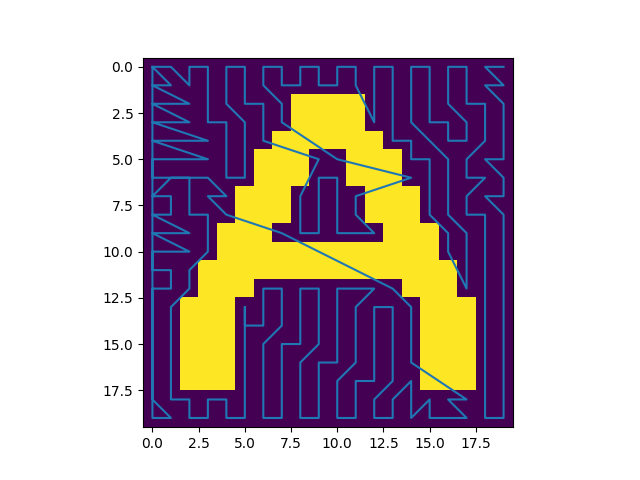
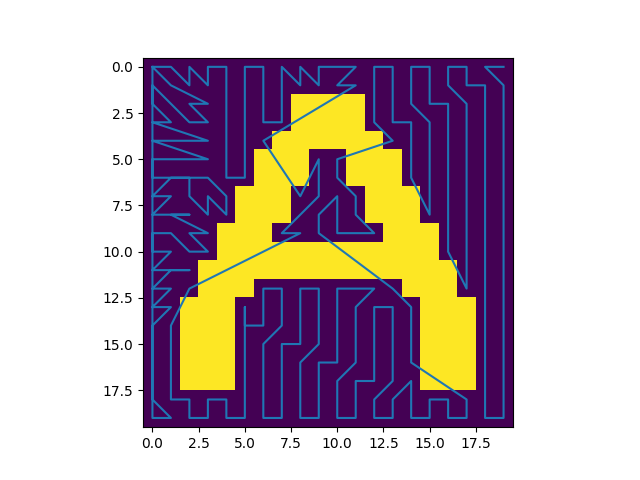
save checkpoints

diff --git a/tsp/sns.py b/tsp/sns.py
@@ -1,5 +1,5 @@
 import numpy as np
-from itertools import permutations
+from copy import copy
 
 def cal_distance(sol, data):
     distance = 0
@@ -9,44 +9,53 @@ def cal_distance(sol, data):
         distance += np.sqrt((data[start][0] - data[end][0])**2+(data[start][1] - data[end][1])**2)
     return distance
 
-def destroy_route(start, end, sol):
-    return sol[sol.index(start): sol.index(end)+1]
+def ucl_distance(a,b):
+    return np.sqrt((a[0] - b[0])**2+(a[1] - b[1])**2)
 
-def generate_candidate_sol(candi, random=None):
-    if random is not None:
-        permut_list = []
-        for _ in range(random):
-            permut_list.append(np.random.permutation(candi))
-        return permut_list
-    else:
-        return list(permutations(candi))
+def generate_distance_matrix(data):
+    size = len(data)
+    matrix = np.zeros((size, size))
+    for y in range(size):
+        for x in range(size):
+            matrix[y][x] = ucl_distance(data[y], data[x])
+    return matrix
 
-def evaluate_route(start, end, sol, data, random):
-    destoried_route = destroy_route(start, end, sol)
-    candidate_routes = generate_candidate_sol(destoried_route, random)
-    candidate_routes = [sol[:sol.index(start)]+list(route)+sol[sol.index(end)+1:] for route in candidate_routes]
-    shortest_route = 0
-    shortest_distance = 999999999
-    for idx, sol in enumerate(candidate_routes):
-        distance = cal_distance(sol, data)
-        if distance <= shortest_distance:
-            shortest_route = idx
-            shortest_distance = distance
-    return candidate_routes[shortest_route]
+def swap(path, swap_first, swap_last):
+        path_updated = np.concatenate((path[0:swap_first],
+                                       path[swap_last:-len(path) + swap_first - 1:-1],
+                                       path[swap_last + 1:len(path)]))
+        return path_updated.tolist()
 
-def small_neighborhood_search(data, feasible_sol, search_size, random):
-    min_length = cal_distance(feasible_sol, data)
-    for i in range(len(feasible_sol)-search_size+1):
-        print(f'processing...{i}/{len(feasible_sol)-search_size+1} - {i/(len(feasible_sol)-search_size+1)*100:.1f}%, Current_length: {cal_distance(feasible_sol, data)}', end='\r')
-        start = feasible_sol[i]
-        end = feasible_sol[i+search_size-1]
-        current_sol = evaluate_route(start, end, feasible_sol, data, random)
-        current_distance = cal_distance(current_sol, data)
-        if current_distance < min_length:
-            feasible_sol = current_sol
-            min_length = current_distance
-    print(f'processing...{i+1}/{len(feasible_sol)-search_size+1} - {(i+1)/(len(feasible_sol)-search_size+1)*100:.1f}%, Current_length: {cal_distance(feasible_sol, data)}')
-    return feasible_sol
+def two_opt(initial_route, data, improvement_threshold=0.01):
+    best_route = initial_route
+    best_distance = cal_distance(best_route, data)
+    improvement_factor = 1
+    distance_matrix = generate_distance_matrix(data)
+    size = len(initial_route)
+    trial_count = 0
+    while improvement_factor > improvement_threshold:
+        previous_best = best_distance
+        for swap_first in range(1, size - 2):
+            for swap_last in range(swap_first + 1, size - 1):
+                before_start = best_route[swap_first - 1]
+                start = best_route[swap_first]
+                end = best_route[swap_last]
+                after_end = best_route[swap_last+1]
+                before = distance_matrix[before_start][start] + distance_matrix[end][after_end]
+                after = distance_matrix[before_start][end] + distance_matrix[start][after_end]
+
+                if after < before:
+                    new_route = swap(best_route, swap_first, swap_last)
+                    new_distance = cal_distance(new_route, data)
+                    best_route = copy(new_route)
+                    best_distance = copy(new_distance)
+
+        improvement_factor = 1 - best_distance/previous_best
+        trial_count += 1
+        print(f'Processing... trial count:{trial_count}', end='\r')
+    print(f'Processing... trial count:{trial_count} --- DONE!')
+
+    return best_route, best_distance
 
 
 if __name__=="__main__":
@@ -55,7 +64,7 @@ if __name__=="__main__":
 
     search_size = 4
 
-    print(small_neighborhood_search(data, feasible_sol, search_size))
+    print(two_opt(feasible_sol, data))
 
     # for i in range(len(feasible_sol)-search_size+1):
     #     start = feasible_sol[i]

diff --git a/tsp/test.py b/tsp/test.py
@@ -10,7 +10,7 @@ from gpn import GPN
 from tqdm import tqdm
 import numpy as np
 from pathlib import Path
-from sns import small_neighborhood_search, cal_distance
+from sns import two_opt, cal_distance
 
 # args
 parser = argparse.ArgumentParser(description="GPN test")
@@ -21,7 +21,7 @@ size = int(args['size'])
 device = torch.device('cuda:2')
 
 # test image
-data_path = '../data/data/s.npy'
+data_path = '../data/data/e.npy'
 img = np.load(data_path)
 orig_X = np.expand_dims(np.asarray(np.where(img==0)).T, axis=0)
 
@@ -80,14 +80,14 @@ for k in range(size):
 print('Original tour length:', cal_distance(Idx, orig_X[0]))
 # total_tour_len += tour_len
 
-search_size = 40
+search_size = 100
 
-final_sol = small_neighborhood_search(orig_X[0], Idx, search_size, 1000)
+best_route, best_distance = two_opt(Idx, orig_X[0], improvement_threshold=0.001)
 
-pred = orig_X[0][final_sol].T
+pred = orig_X[0][best_route].T
 plt.imshow(img)
 plt.plot(pred[1], pred[0])
 plt.savefig(f'./pred_{Path(data_path).stem}_{str(size)}.png')
 plt.close()
 
-print('Final tour length:', cal_distance(final_sol, orig_X[0]))
+print('Final tour length:', best_distance)
